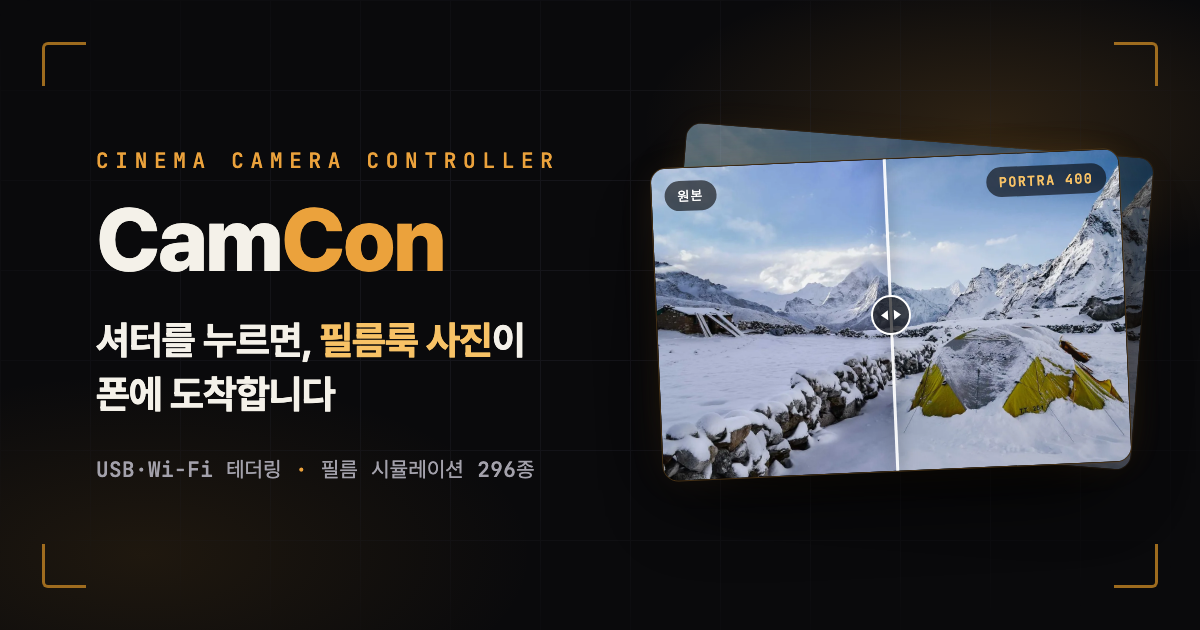
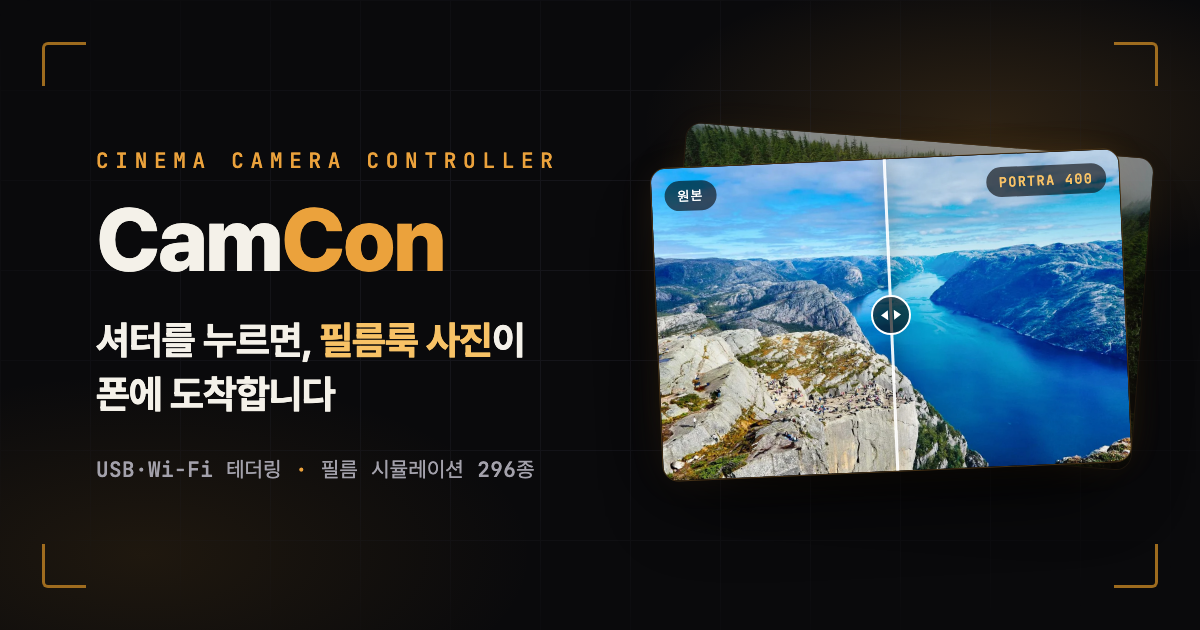
feat(web): 전/후 슬라이더 장면을 스와치와 동기화 — ba-before-<scene>×3 + ba-after-<slug>×14, OG v4

Changed region(s): [[0.5242, 0.181, 0.9867, 0.7841]]

diff --git a/website/index.html b/website/index.html
@@ -13,7 +13,7 @@
   <meta property="og:url" content="https://camcon.inik.kr/">
   <meta property="og:title" content="CamCon — 셔터를 누르면, 필름룩 사진이 폰에 도착합니다">
   <meta property="og:description" content="카메라를 USB·Wi-Fi로 연결하고, 촬영과 동시에 필름 시뮬레이션이 입혀진 사진을 받아보세요.">
-  <meta property="og:image" content="https://camcon.inik.kr/assets/img/og-card.png?v=3">
+  <meta property="og:image" content="https://camcon.inik.kr/assets/img/og-card.png?v=4">
   <meta property="og:image:width" content="1200">
   <meta property="og:image:height" content="630">
   <meta property="og:image:type" content="image/png">
@@ -21,7 +21,7 @@
   <meta name="twitter:card" content="summary_large_image">
   <meta name="twitter:title" content="CamCon — 셔터를 누르면, 필름룩 사진이 폰에 도착합니다">
   <meta name="twitter:description" content="카메라를 USB·Wi-Fi로 연결하고, 촬영과 동시에 필름 시뮬레이션이 입혀진 사진을 받아보세요.">
-  <meta name="twitter:image" content="https://camcon.inik.kr/assets/img/og-card.png?v=3">
+  <meta name="twitter:image" content="https://camcon.inik.kr/assets/img/og-card.png?v=4">
 
   <link rel="canonical" href="https://camcon.inik.kr/">
   <link rel="icon" type="image/svg+xml" href="favicon.svg">
@@ -43,7 +43,7 @@
     "applicationCategory": "MultimediaApplication",
     "description": "DSLR·미러리스 카메라를 USB·Wi-Fi로 연결하고, 촬영과 동시에 필름 시뮬레이션이 입혀진 사진을 받아보는 시네마 카메라 컨트롤러",
     "url": "https://camcon.inik.kr/",
-    "image": "https://camcon.inik.kr/assets/img/og-card.png?v=3",
+    "image": "https://camcon.inik.kr/assets/img/og-card.png?v=4",
     "installUrl": "https://play.google.com/store/apps/details?id=com.inik.camcon",
     "offers": { "@type": "Offer", "price": "0", "priceCurrency": "KRW" }
   }
@@ -212,8 +212,8 @@
               <p data-i18n="feat.film.d">실제 필름을 모델링한 3D LUT를 촬영 사진에 자동 적용. 수신과 동시에 필름룩이 입혀진 사진을 받습니다.</p>
             </div>
             <div class="feat-visual feat-split" aria-hidden="true">
-              <div class="half l"><img src="assets/film/hero-before.webp" alt="" loading="lazy" width="1280" height="854"></div>
-              <div class="half r"><img src="assets/film/hero-after-free-portra400.webp" alt="" loading="lazy" width="1280" height="854"></div>
+              <div class="half l"><img src="assets/film/ba-before-grid.webp" alt="" loading="lazy" width="1280" height="854"></div>
+              <div class="half r"><img src="assets/film/ba-after-free-portra400.webp" alt="" loading="lazy" width="1280" height="854"></div>
               <span class="line"></span>
               <span class="t l">ORIGINAL</span><span class="t r">PORTRA 400</span>
             </div>
@@ -273,8 +273,8 @@
         <!-- before / after (실제 LUT 적용) -->
         <div class="ba reveal">
           <div class="ba-frame">
-            <img class="ba-img ba-after" id="baAfter" src="assets/film/hero-after-free-portra400.webp" alt="필름 적용 후" data-i18n-attr="alt" data-i18n="films.afterAlt" width="1280" height="854">
-            <div class="ba-before-wrap"><img class="ba-img ba-before" src="assets/film/hero-before.webp" alt="원본" data-i18n-attr="alt" data-i18n="films.baBefore" width="1280" height="854"></div>
+            <img class="ba-img ba-after" id="baAfter" src="assets/film/ba-after-free-portra400.webp" alt="필름 적용 후" data-i18n-attr="alt" data-i18n="films.afterAlt" width="1280" height="854">
+            <div class="ba-before-wrap"><img class="ba-img ba-before" src="assets/film/ba-before-grid.webp" alt="원본" data-i18n-attr="alt" data-i18n="films.baBefore" width="1280" height="854"></div>
             <span class="ba-tag ba-tag-l" data-i18n="films.baBefore">원본</span>
             <span class="ba-tag ba-tag-r" id="baName" aria-live="polite">Kodak Portra 400</span>
             <div class="ba-divider" aria-hidden="true"><span class="ba-handle"></span></div>
@@ -286,24 +286,24 @@
         <div class="films-free reveal">
           <div class="films-free-label" data-i18n="films.freeLabel">Free Signature — 무료로 쓰는 시그니처 5종</div>
           <div class="free-strip">
-            <div class="swatch free is-active" role="button" tabindex="0" aria-label="Kodak Portra 400" data-after="assets/film/hero-after-free-portra400.webp" data-name="Kodak Portra 400"><img class="shot" src="assets/film/free-portra400.webp" alt="Kodak Portra 400" loading="lazy" width="760" height="608"><span class="tag-free">FREE</span><div class="meta"><span class="name">Kodak Portra 400</span></div></div>
-            <div class="swatch free" role="button" tabindex="0" aria-label="Fuji Velvia 50" data-after="assets/film/hero-after-free-velvia50.webp" data-name="Fuji Velvia 50"><img class="shot" src="assets/film/free-velvia50.webp" alt="Fuji Velvia 50" loading="lazy" width="760" height="608"><span class="tag-free">FREE</span><div class="meta"><span class="name">Fuji Velvia 50</span></div></div>
-            <div class="swatch free" role="button" tabindex="0" aria-label="Kodak Tri-X 400" data-after="assets/film/hero-after-free-trix400.webp" data-name="Kodak Tri-X 400"><img class="shot" src="assets/film/free-trix400.webp" alt="Kodak Tri-X 400" loading="lazy" width="760" height="608"><span class="tag-free">FREE</span><div class="meta"><span class="name">Kodak Tri-X 400</span></div></div>
-            <div class="swatch free" role="button" tabindex="0" aria-label="Classic Chrome" data-after="assets/film/hero-after-free-classicchrome.webp" data-name="Classic Chrome"><img class="shot" src="assets/film/free-classicchrome.webp" alt="Classic Chrome" loading="lazy" width="760" height="608"><span class="tag-free">FREE</span><div class="meta"><span class="name">Classic Chrome</span></div></div>
-            <div class="swatch free" role="button" tabindex="0" aria-label="Polaroid PX-680" data-after="assets/film/hero-after-free-px680.webp" data-name="Polaroid PX-680"><img class="shot" src="assets/film/free-px680.webp" alt="Polaroid PX-680" loading="lazy" width="760" height="608"><span class="tag-free">FREE</span><div class="meta"><span class="name">Polaroid PX-680</span></div></div>
+            <div class="swatch free is-active" role="button" tabindex="0" aria-label="Kodak Portra 400" data-before="assets/film/ba-before-grid.webp" data-after="assets/film/ba-after-free-portra400.webp" data-name="Kodak Portra 400"><img class="shot" src="assets/film/free-portra400.webp" alt="Kodak Portra 400" loading="lazy" width="760" height="608"><span class="tag-free">FREE</span><div class="meta"><span class="name">Kodak Portra 400</span></div></div>
+            <div class="swatch free" role="button" tabindex="0" aria-label="Fuji Velvia 50" data-before="assets/film/ba-before-alt.webp" data-after="assets/film/ba-after-free-velvia50.webp" data-name="Fuji Velvia 50"><img class="shot" src="assets/film/free-velvia50.webp" alt="Fuji Velvia 50" loading="lazy" width="760" height="608"><span class="tag-free">FREE</span><div class="meta"><span class="name">Fuji Velvia 50</span></div></div>
+            <div class="swatch free" role="button" tabindex="0" aria-label="Kodak Tri-X 400" data-before="assets/film/ba-before-hero.webp" data-after="assets/film/ba-after-free-trix400.webp" data-name="Kodak Tri-X 400"><img class="shot" src="assets/film/free-trix400.webp" alt="Kodak Tri-X 400" loading="lazy" width="760" height="608"><span class="tag-free">FREE</span><div class="meta"><span class="name">Kodak Tri-X 400</span></div></div>
+            <div class="swatch free" role="button" tabindex="0" aria-label="Classic Chrome" data-before="assets/film/ba-before-grid.webp" data-after="assets/film/ba-after-free-classicchrome.webp" data-name="Classic Chrome"><img class="shot" src="assets/film/free-classicchrome.webp" alt="Classic Chrome" loading="lazy" width="760" height="608"><span class="tag-free">FREE</span><div class="meta"><span class="name">Classic Chrome</span></div></div>
+            <div class="swatch free" role="button" tabindex="0" aria-label="Polaroid PX-680" data-before="assets/film/ba-before-alt.webp" data-after="assets/film/ba-after-free-px680.webp" data-name="Polaroid PX-680"><img class="shot" src="assets/film/free-px680.webp" alt="Polaroid PX-680" loading="lazy" width="760" height="608"><span class="tag-free">FREE</span><div class="meta"><span class="name">Polaroid PX-680</span></div></div>
           </div>
         </div>
 
         <div class="films-grid">
-          <div class="swatch film-cat reveal" role="button" tabindex="0" data-after="assets/film/hero-after-cat-bw.webp" data-name="Ilford Delta 100"><img class="shot" src="assets/film/cat-bw.webp" alt="" loading="lazy" width="760" height="608"><div class="meta"><span class="name" data-i18n="film.bw">흑백</span><span class="n">25</span></div></div>
-          <div class="swatch film-cat reveal" data-delay="1" role="button" tabindex="0" data-after="assets/film/hero-after-cat-slide.webp" data-name="Fuji Provia 100"><img class="shot" src="assets/film/cat-slide.webp" alt="" loading="lazy" width="760" height="608"><div class="meta"><span class="name" data-i18n="film.slide">컬러 슬라이드</span><span class="n">26</span></div></div>
-          <div class="swatch film-cat reveal" data-delay="2" role="button" tabindex="0" data-after="assets/film/hero-after-cat-xtrans.webp" data-name="Fuji Astia"><img class="shot" src="assets/film/cat-xtrans.webp" alt="" loading="lazy" width="760" height="608"><div class="meta"><span class="name" data-i18n="film.xtrans">후지 X-Trans III</span><span class="n">15</span></div></div>
-          <div class="swatch film-cat reveal" role="button" tabindex="0" data-after="assets/film/hero-after-cat-instc.webp" data-name="Polaroid PX-70"><img class="shot" src="assets/film/cat-instc.webp" alt="" loading="lazy" width="760" height="608"><div class="meta"><span class="name" data-i18n="film.instantc">인스턴트 컨슈머</span><span class="n">54</span></div></div>
-          <div class="swatch film-cat reveal" data-delay="1" role="button" tabindex="0" data-after="assets/film/hero-after-cat-instp.webp" data-name="Fuji FP-100C"><img class="shot" src="assets/film/cat-instp.webp" alt="" loading="lazy" width="760" height="608"><div class="meta"><span class="name" data-i18n="film.instantp">인스턴트 프로</span><span class="n">68</span></div></div>
-          <div class="swatch film-cat reveal" data-delay="2" role="button" tabindex="0" data-after="assets/film/hero-after-cat-colorneg.webp" data-name="Fuji Superia 200"><img class="shot" src="assets/film/cat-colorneg.webp" alt="" loading="lazy" width="760" height="608"><div class="meta"><span class="name" data-i18n="film.colorneg">컬러 네거티브</span><span class="n">13</span></div></div>
-          <div class="swatch film-cat reveal" role="button" tabindex="0" data-after="assets/film/hero-after-cat-negnew.webp" data-name="Fuji Pro 400H"><img class="shot" src="assets/film/cat-negnew.webp" alt="" loading="lazy" width="760" height="608"><div class="meta"><span class="name" data-i18n="film.negnew">네거티브 뉴</span><span class="n">39</span></div></div>
-          <div class="swatch film-cat reveal" data-delay="1" role="button" tabindex="0" data-after="assets/film/hero-after-cat-negold.webp" data-name="Kodak Portra 160 NC"><img class="shot" src="assets/film/cat-negold.webp" alt="" loading="lazy" width="760" height="608"><div class="meta"><span class="name" data-i18n="film.negold">네거티브 올드</span><span class="n">44</span></div></div>
-          <div class="swatch film-cat reveal" data-delay="2" role="button" tabindex="0" data-after="assets/film/hero-after-cat-print.webp" data-name="Kodak 2383"><img class="shot" src="assets/film/cat-print.webp" alt="" loading="lazy" width="760" height="608"><div class="meta"><span class="name" data-i18n="film.print">프린트</span><span class="n">12</span></div></div>
+          <div class="swatch film-cat reveal" role="button" tabindex="0" data-before="assets/film/ba-before-alt.webp" data-after="assets/film/ba-after-cat-bw.webp" data-name="Ilford Delta 100"><img class="shot" src="assets/film/cat-bw.webp" alt="" loading="lazy" width="760" height="608"><div class="meta"><span class="name" data-i18n="film.bw">흑백</span><span class="n">25</span></div></div>
+          <div class="swatch film-cat reveal" data-delay="1" role="button" tabindex="0" data-before="assets/film/ba-before-grid.webp" data-after="assets/film/ba-after-cat-slide.webp" data-name="Fuji Provia 100"><img class="shot" src="assets/film/cat-slide.webp" alt="" loading="lazy" width="760" height="608"><div class="meta"><span class="name" data-i18n="film.slide">컬러 슬라이드</span><span class="n">26</span></div></div>
+          <div class="swatch film-cat reveal" data-delay="2" role="button" tabindex="0" data-before="assets/film/ba-before-hero.webp" data-after="assets/film/ba-after-cat-xtrans.webp" data-name="Fuji Astia"><img class="shot" src="assets/film/cat-xtrans.webp" alt="" loading="lazy" width="760" height="608"><div class="meta"><span class="name" data-i18n="film.xtrans">후지 X-Trans III</span><span class="n">15</span></div></div>
+          <div class="swatch film-cat reveal" role="button" tabindex="0" data-before="assets/film/ba-before-hero.webp" data-after="assets/film/ba-after-cat-instc.webp" data-name="Polaroid PX-70"><img class="shot" src="assets/film/cat-instc.webp" alt="" loading="lazy" width="760" height="608"><div class="meta"><span class="name" data-i18n="film.instantc">인스턴트 컨슈머</span><span class="n">54</span></div></div>
+          <div class="swatch film-cat reveal" data-delay="1" role="button" tabindex="0" data-before="assets/film/ba-before-alt.webp" data-after="assets/film/ba-after-cat-instp.webp" data-name="Fuji FP-100C"><img class="shot" src="assets/film/cat-instp.webp" alt="" loading="lazy" width="760" height="608"><div class="meta"><span class="name" data-i18n="film.instantp">인스턴트 프로</span><span class="n">68</span></div></div>
+          <div class="swatch film-cat reveal" data-delay="2" role="button" tabindex="0" data-before="assets/film/ba-before-grid.webp" data-after="assets/film/ba-after-cat-colorneg.webp" data-name="Fuji Superia 200"><img class="shot" src="assets/film/cat-colorneg.webp" alt="" loading="lazy" width="760" height="608"><div class="meta"><span class="name" data-i18n="film.colorneg">컬러 네거티브</span><span class="n">13</span></div></div>
+          <div class="swatch film-cat reveal" role="button" tabindex="0" data-before="assets/film/ba-before-grid.webp" data-after="assets/film/ba-after-cat-negnew.webp" data-name="Fuji Pro 400H"><img class="shot" src="assets/film/cat-negnew.webp" alt="" loading="lazy" width="760" height="608"><div class="meta"><span class="name" data-i18n="film.negnew">네거티브 뉴</span><span class="n">39</span></div></div>
+          <div class="swatch film-cat reveal" data-delay="1" role="button" tabindex="0" data-before="assets/film/ba-before-hero.webp" data-after="assets/film/ba-after-cat-negold.webp" data-name="Kodak Portra 160 NC"><img class="shot" src="assets/film/cat-negold.webp" alt="" loading="lazy" width="760" height="608"><div class="meta"><span class="name" data-i18n="film.negold">네거티브 올드</span><span class="n">44</span></div></div>
+          <div class="swatch film-cat reveal" data-delay="2" role="button" tabindex="0" data-before="assets/film/ba-before-alt.webp" data-after="assets/film/ba-after-cat-print.webp" data-name="Kodak 2383"><img class="shot" src="assets/film/cat-print.webp" alt="" loading="lazy" width="760" height="608"><div class="meta"><span class="name" data-i18n="film.print">프린트</span><span class="n">12</span></div></div>
         </div>
         <p class="films-note reveal" data-i18n="films.note">전체 296종은 <strong>PRO</strong>에서 열립니다.</p>
       </div>
@@ -507,6 +507,6 @@
     </div>
   </footer>
 
-  <script src="assets/js/main.js?v=20260710" defer></script>
+  <script src="assets/js/main.js?v=20260710b" defer></script>
 </body>
 </html>

diff --git a/website/assets/js/main.js b/website/assets/js/main.js
@@ -98,6 +98,7 @@ function normalizeCameraKey(input) {
     var after = document.getElementById("baAfter");
     var nameTag = document.getElementById("baName");
     if (!after || !nameTag) return;
+    var before = document.querySelector(".ba .ba-before");
     var swatches = document.querySelectorAll(".swatch[data-after]");
     if (!swatches.length) return;
     var ba = document.querySelector(".ba");
@@ -119,6 +120,9 @@ function normalizeCameraKey(input) {
         swatches[i].setAttribute("aria-pressed", on ? "true" : "false");
       }
       after.src = src;
+      // 원본도 스와치의 장면과 짝으로 교체 (data-before, 장면 매핑은 render_film_examples.py가 보장)
+      var bsrc = sw.getAttribute("data-before");
+      if (before && bsrc) before.src = bsrc;
       nameTag.textContent = sw.getAttribute("data-name") || "";
       // 좁은 화면에선 스와치가 슬라이더 아래라 결과가 안 보임 → 슬라이더로 스크롤
       if (ba && window.matchMedia("(max-width: 720px)").matches) {
@@ -136,7 +140,10 @@ function normalizeCameraKey(input) {
             select(sw);
           }
         });
-        sw.addEventListener("pointerenter", function () { preload(sw.getAttribute("data-after")); });
+        sw.addEventListener("pointerenter", function () {
+          preload(sw.getAttribute("data-after"));
+          preload(sw.getAttribute("data-before"));
+        });
       })(swatches[i]);
     }
   }

diff --git a/website/tools/og-card.html b/website/tools/og-card.html
@@ -106,10 +106,10 @@
   </div>
 
   <div class="stack">
-    <div class="card back"><img src="../assets/film/hero-after-free-velvia50.webp" alt=""></div>
+    <div class="card back"><img src="../assets/film/ba-after-free-velvia50.webp" alt=""></div>
     <div class="card front">
-      <div class="half l"><img src="../assets/film/hero-before.webp" alt=""></div>
-      <div class="half r"><img src="../assets/film/hero-after-free-portra400.webp" alt=""></div>
+      <div class="half l"><img src="../assets/film/ba-before-grid.webp" alt=""></div>
+      <div class="half r"><img src="../assets/film/ba-after-free-portra400.webp" alt=""></div>
       <div class="divider"></div>
       <div class="knob"></div>
       <span class="tag l">원본</span>

diff --git a/website/tools/render_film_examples.py b/website/tools/render_film_examples.py
@@ -5,7 +5,9 @@ CamCon 홈페이지 — 필름 시뮬레이션 예시 사진 렌더러.
 앱에 실제로 탑재된 3D LUT(.cube)를 원본 사진에 적용해 '진짜 필름 룩' 예시를 만든다.
 - 원본: website/assets/samples/{grid,hero,alt}.jpg  (교체하려면 이 파일만 바꾸고 재실행)
   · 스와치 썸네일 = 3개 장면(grid=피오르, hero=설산, alt=폭포)을 섞어 단조로움 회피
-  · hero.jpg = 전/후 슬라이더용 (hero-after-*는 전부 이 장면 — 슬라이더 원본과 짝이므로 장면 고정)
+  · 전/후 슬라이더 = 장면별 원본 ba-before-<scene> 3장 + 스와치별 적용본 ba-after-<slug> 14장.
+    ba-after-<slug>는 그 스와치의 장면으로 렌더 — 스와치 클릭 시 index.html의 data-before/
+    data-after가 함께 교체되므로 두 속성의 장면 짝이 항상 맞아야 한다(이 스크립트가 보장).
 - 출력: website/assets/film/*.webp
 - LUT 원천: app/src/main/assets/luts/  (앱과 동일)
 
@@ -42,7 +44,7 @@ CATS = [
     ("cat-negold",   "negative_old/kodak_portra_160_nc.cube",       "hero"),
     ("cat-print",    "print/kodak_2383_constlclip.cube",            "alt"),
 ]
-# 전/후 슬라이더 '후' = 스와치 14종(FREE + CATS) 각각을 hero 사진에 적용
+# 전/후 슬라이더 '후' = 스와치 14종(FREE + CATS) 각각을 자기 장면에 적용
 
 
 def load_cube(path):
@@ -118,15 +120,17 @@ def main():
         fp = os.path.join(OUT, slug + ".webp")
         out.save(fp, "WEBP", quality=82, method=6)
         made.append((slug, os.path.getsize(fp)))
-    # 전/후 슬라이더 (3:2) — 원본 1장 + 필름별 적용본(스와치 클릭 미리보기용, 장면 고정=hero)
-    hero = load_base("hero", 1280, 854)
-    hero.save(os.path.join(OUT, "hero-before.webp"), "WEBP", quality=84, method=6)
-    made.append(("hero-before", os.path.getsize(os.path.join(OUT, "hero-before.webp"))))
-    for slug, lp, _scene in FREE + CATS:
+    # 전/후 슬라이더 (3:2) — 장면별 원본 3장 + 스와치별 적용본(각자 자기 장면과 짝)
+    ba_bases = {name: load_base(name, 1280, 854) for name in ("grid", "hero", "alt")}
+    for name, im in ba_bases.items():
+        fp = os.path.join(OUT, f"ba-before-{name}.webp")
+        im.save(fp, "WEBP", quality=84, method=6)
+        made.append((f"ba-before-{name}", os.path.getsize(fp)))
+    for slug, lp, scene in FREE + CATS:
         lut, size = load_cube(os.path.join(LUT_DIR, lp))
-        fp = os.path.join(OUT, "hero-after-" + slug + ".webp")
-        apply_lut(hero, lut, size).save(fp, "WEBP", quality=84, method=6)
-        made.append(("hero-after-" + slug, os.path.getsize(fp)))
+        fp = os.path.join(OUT, "ba-after-" + slug + ".webp")
+        apply_lut(ba_bases[scene], lut, size).save(fp, "WEBP", quality=84, method=6)
+        made.append(("ba-after-" + slug, os.path.getsize(fp)))
 
     total = sum(sz for _, sz in made)
     print(f"렌더 완료: {len(made)}장, 총 {total/1024:.0f} KB")
